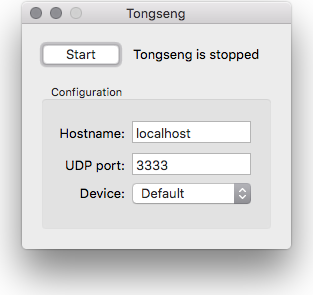
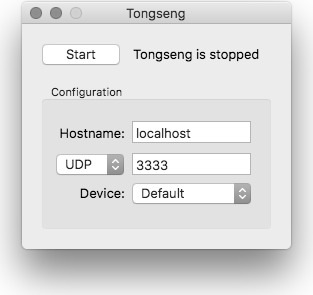
update documentation for 0.6

diff --git a/README.md b/README.md
@@ -1,18 +1,16 @@
 Tongseng
 ========
 
-Tongseng is a [TUIO](http://tuio.org) multitouch tracker for Mac OS X touchpad devices. This 
-application allows to use the internal trackpad (or alternatively an external magic trackpad or magic 
-mouse) to send TUIO events to your multitouch application.
-
-The current development version also enables alternative TUIO/TCP and TUIO/WEB transport methods in 
-addition to the default TUIO/UDP transport.
+Tongseng is a [TUIO](http://tuio.org) multitouch tracker for Mac OS X touchpad devices. This  application allows to use the 
+internal trackpad (or alternatively an external magic trackpad or magic  mouse) to send TUIO  events to your multitouch 
+application. The latest version also enables alternative TUIO/TCP and TUIO/WEB transport methods in addition to the default 
+TUIO/UDP transport.
 
 Usage
 -----
 
 1. Download [the application package](https://github.com/fajran/tongseng/releases/download/0.5/Tonseng-0.5.zip) 
-   (Universal i386/x86_64 Binary, Minimum MacOS X version 10.6)
+   (Universal i386/x86_64 binary, minimum MacOS X version 10.6)
 2. Open it
 3. Run Tongseng
     
@@ -22,10 +20,10 @@ Usage
 5. optionally select an internal or external trackpad
 6. Click the Start button to activate Tongseng
 
-Then..
+Then ...
 
 1. Run your TUIO-based multitouch application
-2. Start touching your touchpad!
+2. Start touching your touchpad
 
 Compilation
 -----------
